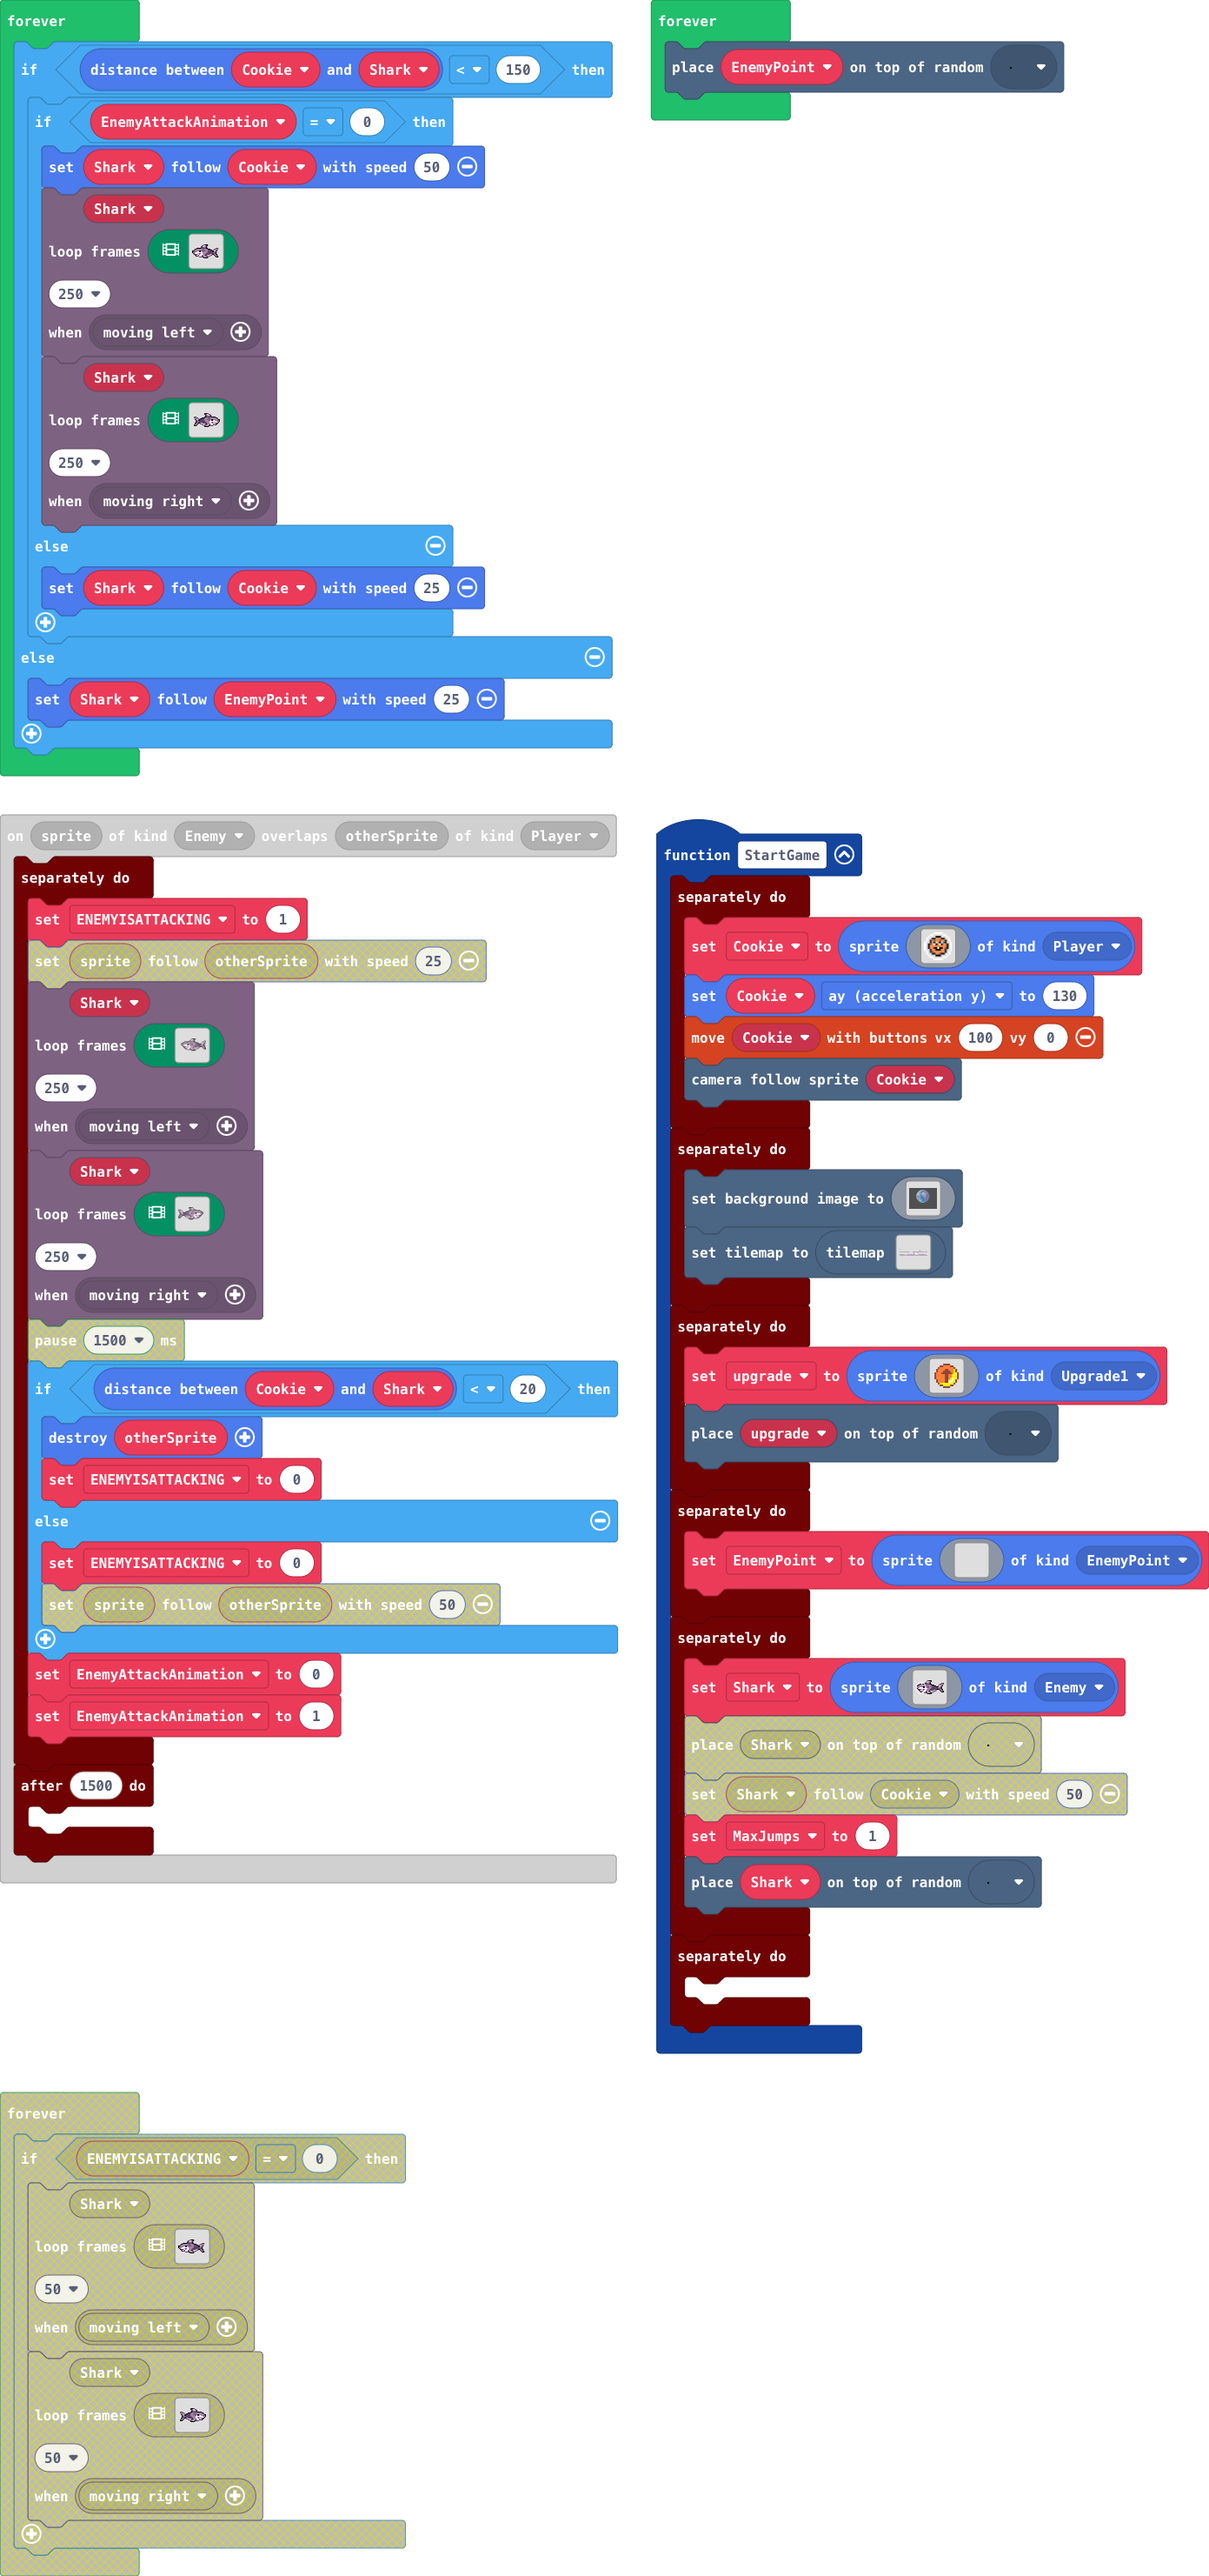
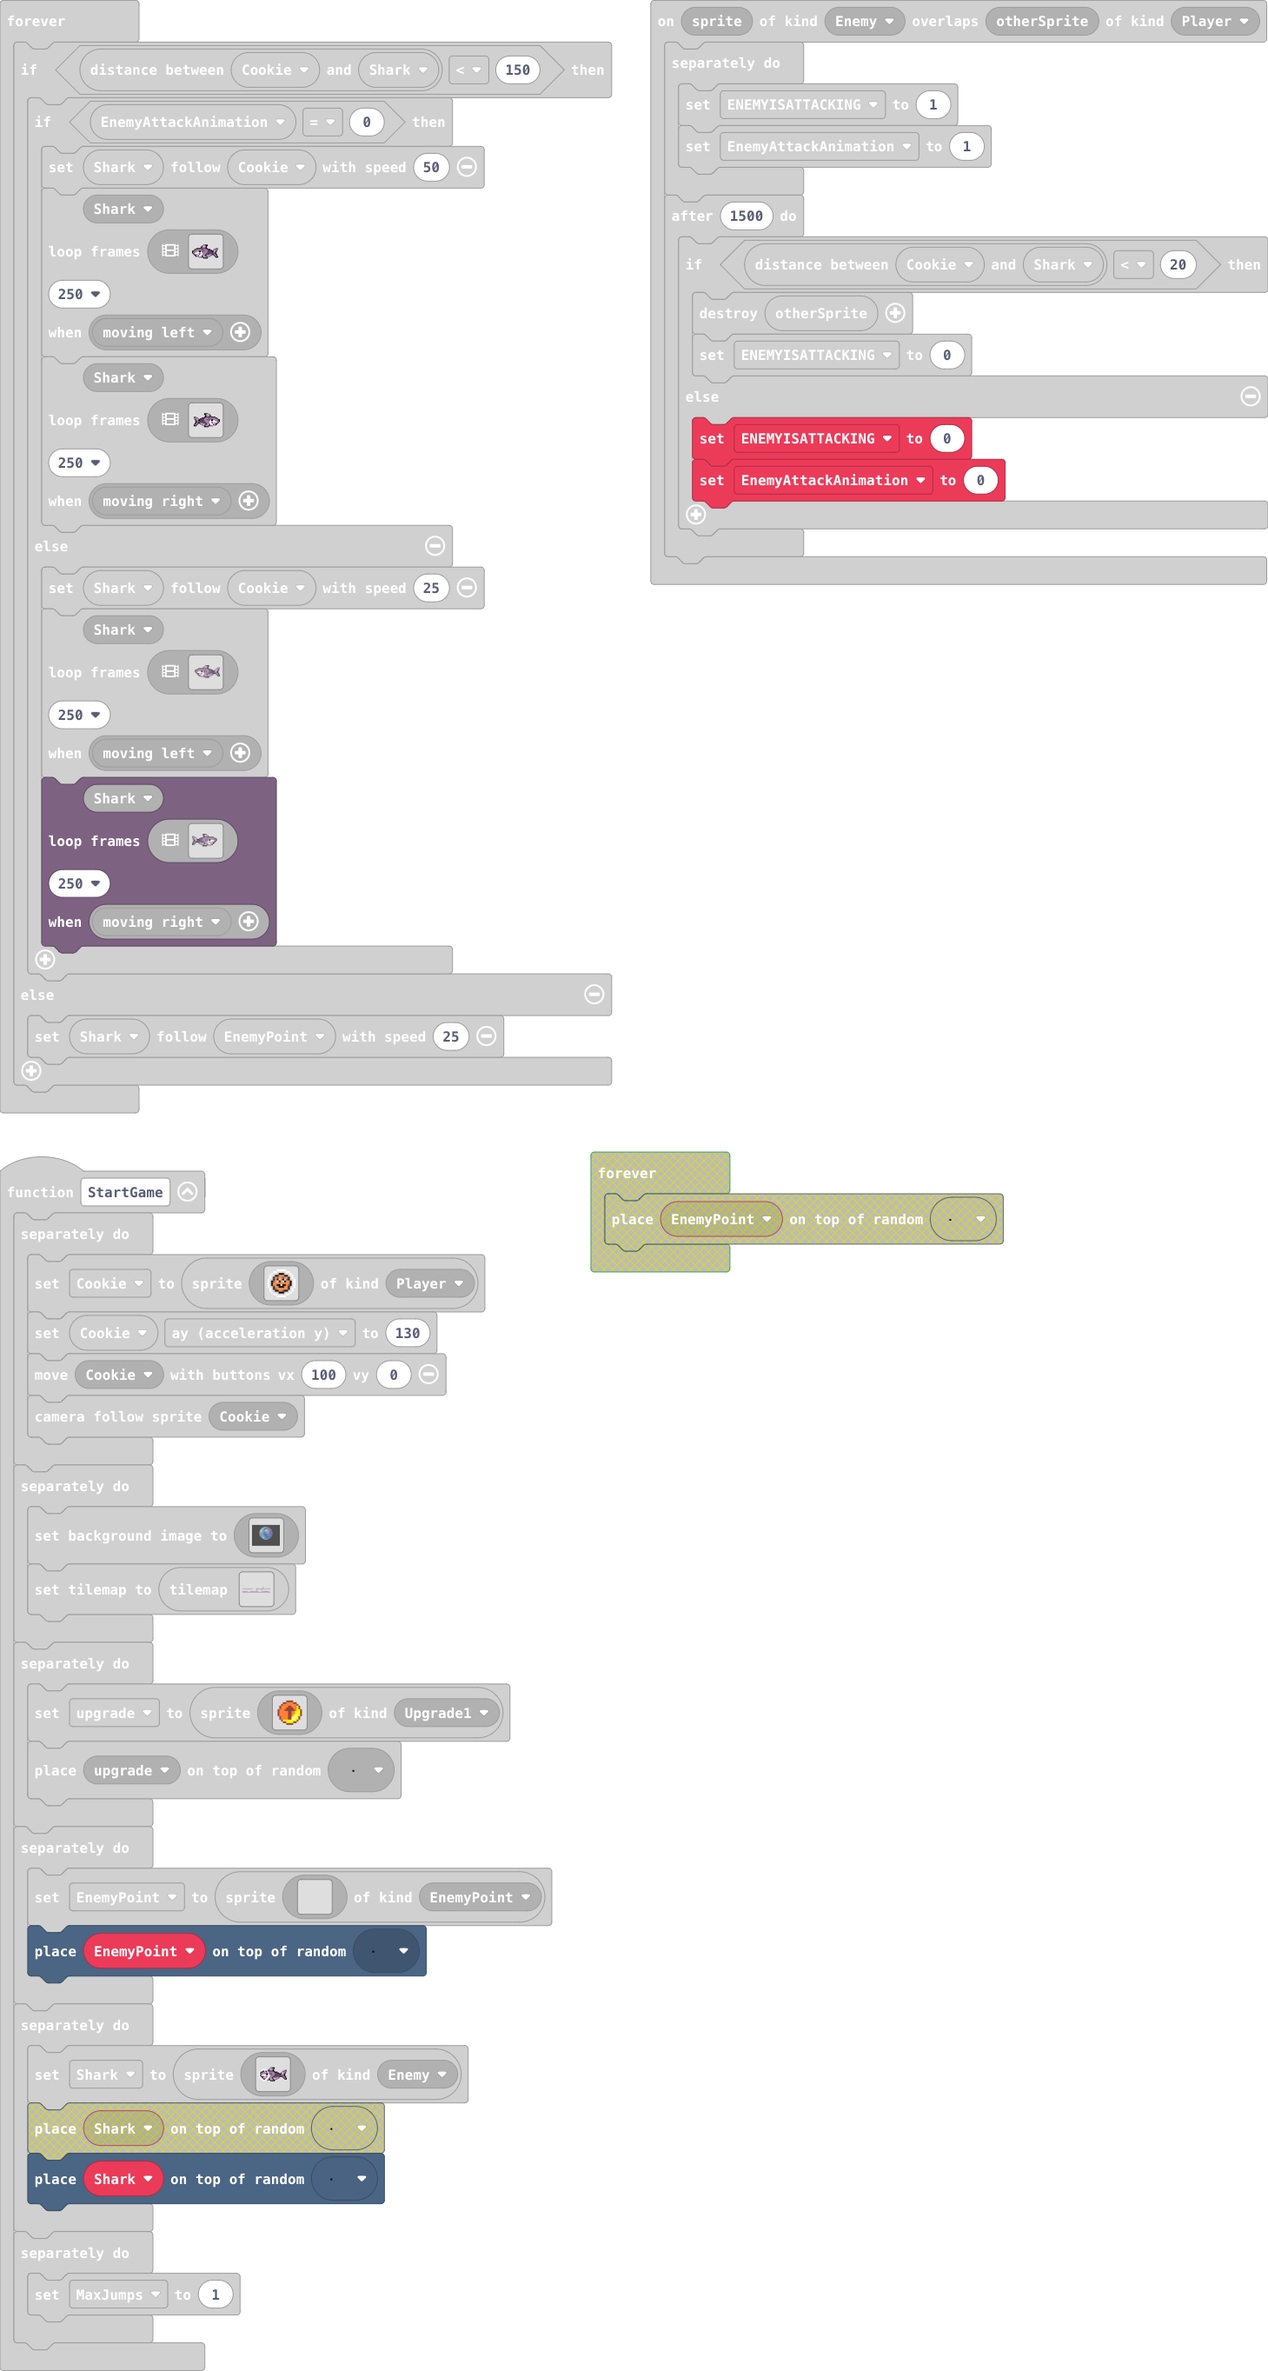
Update main.blocks, main.ts, tilemap.g.jres, tilemap.g.ts

diff --git a/tilemap.g.ts b/tilemap.g.ts
@@ -79,7 +79,7 @@ namespace myTiles {
 . . . . . . . . . . . . . . . . 
 `, [myTiles.transparency16], TileScale.Sixteen);
             case "level2":
-            case "level2":return tiles.createTilemap(hex`4000100001000000000000000000000000000000000000000000000000000000000000000000000000000000000000000000000000000000000000000000000000000000000000000000000000000000000000000000000000000000000000000000000000000000000000000000000000000000000000000000000000000000000000000000000000000000000000000000000000000000000000000000000000000000000000000000000000000000000004000000000000000000000000000000000000000000000000000000000000000000000000000000000000000000000000000000000000000000000000000000040000000000000000000000000000000000000000000000000000000000000000000000000000000000000000000000000000000000000000000000000000000400000000000000000000000000000000000000000000000000000000000000000000000000000000000000000000000000000000000000000000000000000004000000000000000000000000000000000002020202020202020202020202020202020202020202020000000000000002020204020202020202020202020202050202020202020202020202020202020202000000000000000000000000000000000000000000000000000000000000000000040000000000000000000000000000000000000000000000000000000000000000000000000000000000000000000000000000000000000000000000000000000400000100000000000300000000000000000000000000000000000000000000000000000000000000000000000000000000000000000000000000000000000004000000000000000000000000000000000000000000000000000000000000000000000000000000000000000000000000000000000000000000000000000000040000000000000000000000000000000000000000000000000000000000000000000000000000000000000000000000000000000000000000000000000000000400000000000000000000000000000000000000000000000000000000000002020202020202020202020000000000000202020202020202020202020202020205020200000000000000020202020202020202020202020202020202000000000000000000000000000000000000000000000000000000000000000000000000000000000000000000000000000000000000000000000000000000000000000000000000000000000000000000000000000000000000000000000000000000000000000000000000000000000000000000000000000000000000000000000002020202020202020202020202020202020202020202020202020202020202020202020202020202020202020202020202020202020202020202020202020202`, img`
+            case "level2":return tiles.createTilemap(hex`4000100000000000000000000000000000000000000000000000000000000000000000000000000000000000000000000000000000000000000000000000000000000000000000000000000000000000000000000000000000000000000000000000000000000000000000000000000000000000000000000000000000000000000000000000000000000000000000000000000000000000000000000000000000000000000000000000000000000000000004000000000000000000000000000000000000000000000000000000000000000000000000000000000000000000000000000000000000000000000000000000040000000000000000000000000000000000000000000000000000000000000000000000000000000000000000000000000000000000000000000000000000000400000000000000000000000000000000000000000000000000000000000000000000000000000000000000000000000000000000000000000000000000000004000000000000000000000000000000000002020202020202020202020202020202020202020202020000000000000002020204020202020202020202020202050202020202020202020202020202020202000000000000000000000000000000000000000000000000000000000000000000040000000000000000000000000000000000000000000000000000000000000000000000000000000000000000000000000000000000000000000000000000000400000000000000000300000000000000000000000000000000000000000000000000000000000000000000000000000000000000000000000000000000000004000000000000000000000000000000000000000000000000000000000000000000000000000000000000000000000000000000000000000000000000000000040000000000000000000000000000000000000000000000000000000000000000000000000000000000000000000000000000000000000000000000000000000400000000000000000000000000000000000000000000000000000000000002020202020202020202020000000000000202020202020202020202020202020205020200000000000000020202020202020202020202020202020202000000000000000000000000000000000000000000000000000000000000000000000000000000000000000000000000000000000000000100000000000000000000000000000000000000000000000000000000000000000000000000000000000000000000000000000000000000000000000000000000000000000000000000000002020202020202020202020202020202020202020202020202020202020202020202020202020202020202020202020202020202020202020202020202020202`, img`
 ................................................................
 ................................................................
 ..............................................2.................

diff --git a/main.ts b/main.ts
@@ -28,6 +28,7 @@ sprites.onOverlap(SpriteKind.Enemy, SpriteKind.Player, function (sprite, otherSp
             ENEMYISATTACKING = 0
         } else {
             ENEMYISATTACKING = 0
+            EnemyAttackAnimation = 0
         }
     })
 })
@@ -219,6 +220,7 @@ function StartGame () {
             . . . . . . . . . . . . . . . . 
             . . . . . . . . . . . . . . . . 
             `, SpriteKind.EnemyPoint)
+        tiles.placeOnRandomTile(EnemyPoint, assets.tile`myTile`)
     })
     timer.background(function () {
         Shark = sprites.create(img`
@@ -662,14 +664,10 @@ forever(function () {
             250,
             characterAnimations.rule(Predicate.MovingRight)
             )
-            EnemyAttackAnimation = 0
         }
     } else {
         Shark.follow(EnemyPoint, 25)
     }
-})
-forever(function () {
-    tiles.placeOnRandomTile(EnemyPoint, assets.tile`myTile`)
 })
 forever(function () {
     characterAnimations.loopFrames(
